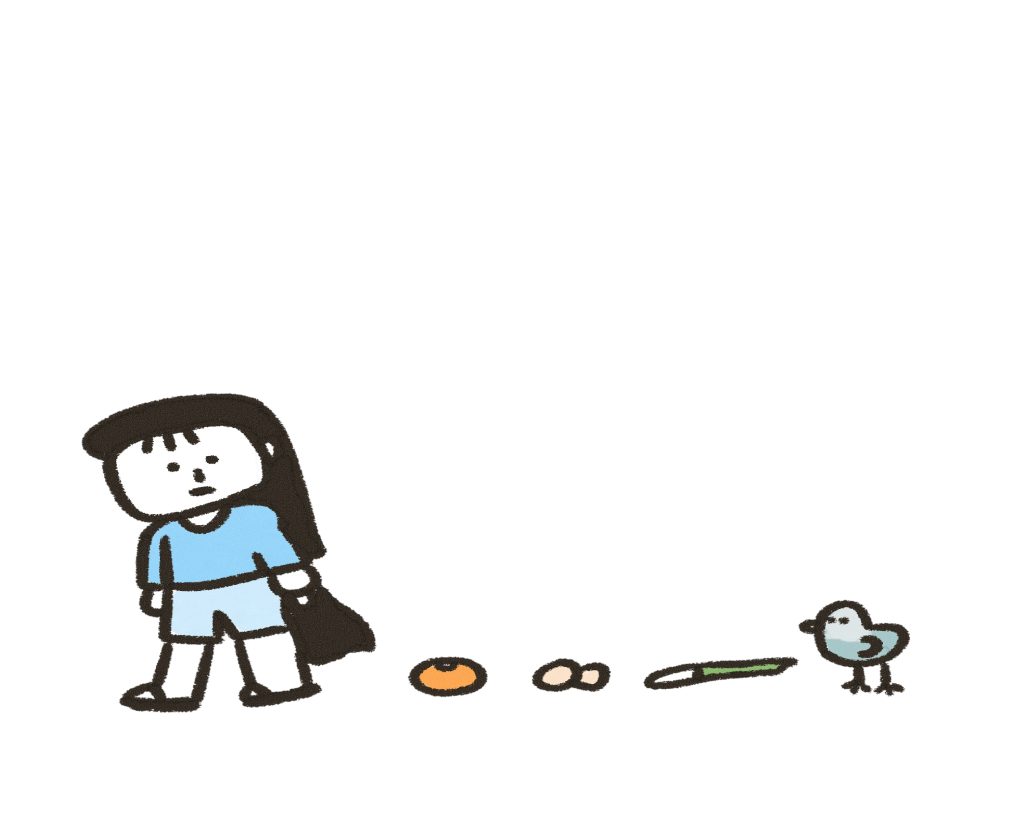
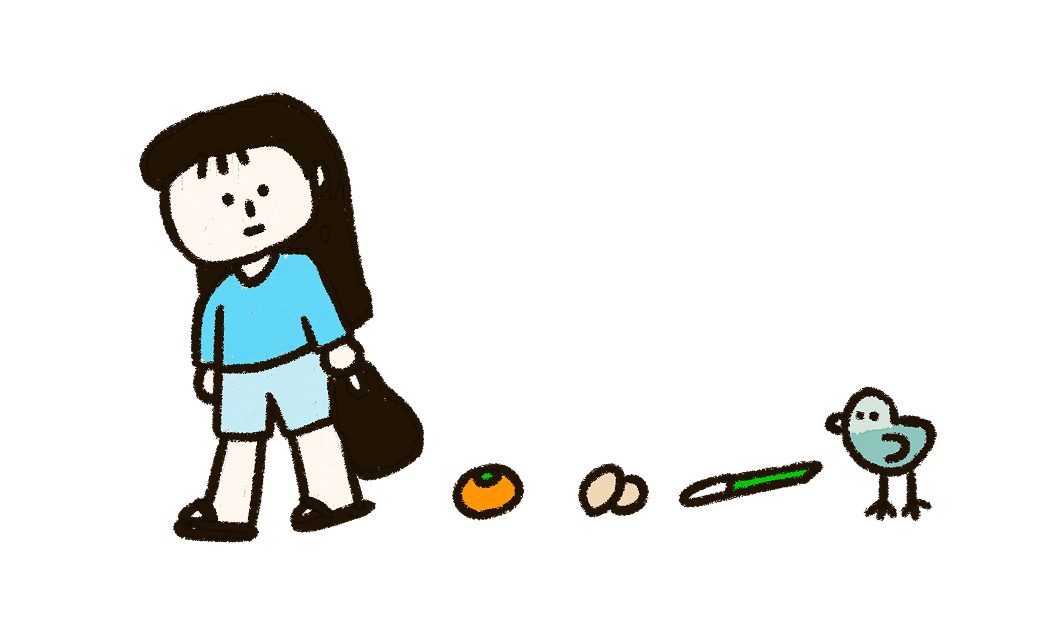
fix: 진행중인 약속이 없을 경우의 홈 hero 부분의 이미지를 원본으로 수정 (#6)

Changed region(s): [[0.0625, 0.1522, 0.9062, 0.883]]

diff --git a/src/components/home/hero/HomeHeroSection.tsx b/src/components/home/hero/HomeHeroSection.tsx
@@ -5,7 +5,7 @@ import { ProfileMenu } from "@/components/home/ProfileMenu";
 
 export const HomeHeroSection = () => {
   return (
-    <section className="bg-primary-light-active relative h-[54dvh] max-h-125 min-h-100 w-full overflow-hidden">
+    <section className="bg-primary-light-active relative h-[54dvh] max-h-80 min-h-100 w-full overflow-hidden">
       <div className="absolute top-11 right-4 z-20">
         <ProfileMenu />
       </div>

diff --git a/src/components/home/hero/HomeEmptyHero.tsx b/src/components/home/hero/HomeEmptyHero.tsx
@@ -10,7 +10,7 @@ export const HomeEmptyHero = () => (
       fill
       priority
       sizes="100vw"
-      className="no-drag object-container object-bottom"
+      className="no-drag object-contain object-bottom"
     />
 
     <div className="relative z-10 px-4 pt-11">
